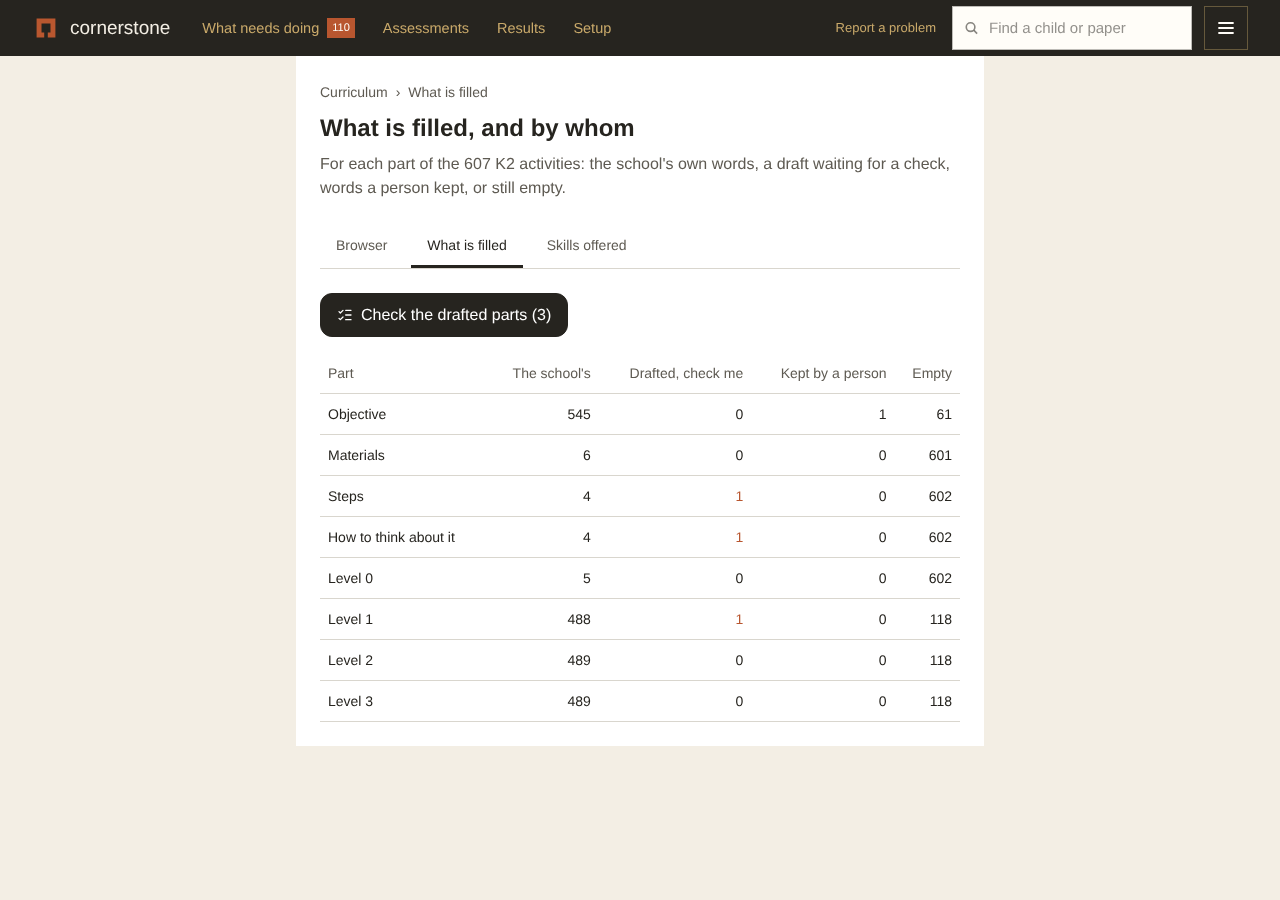
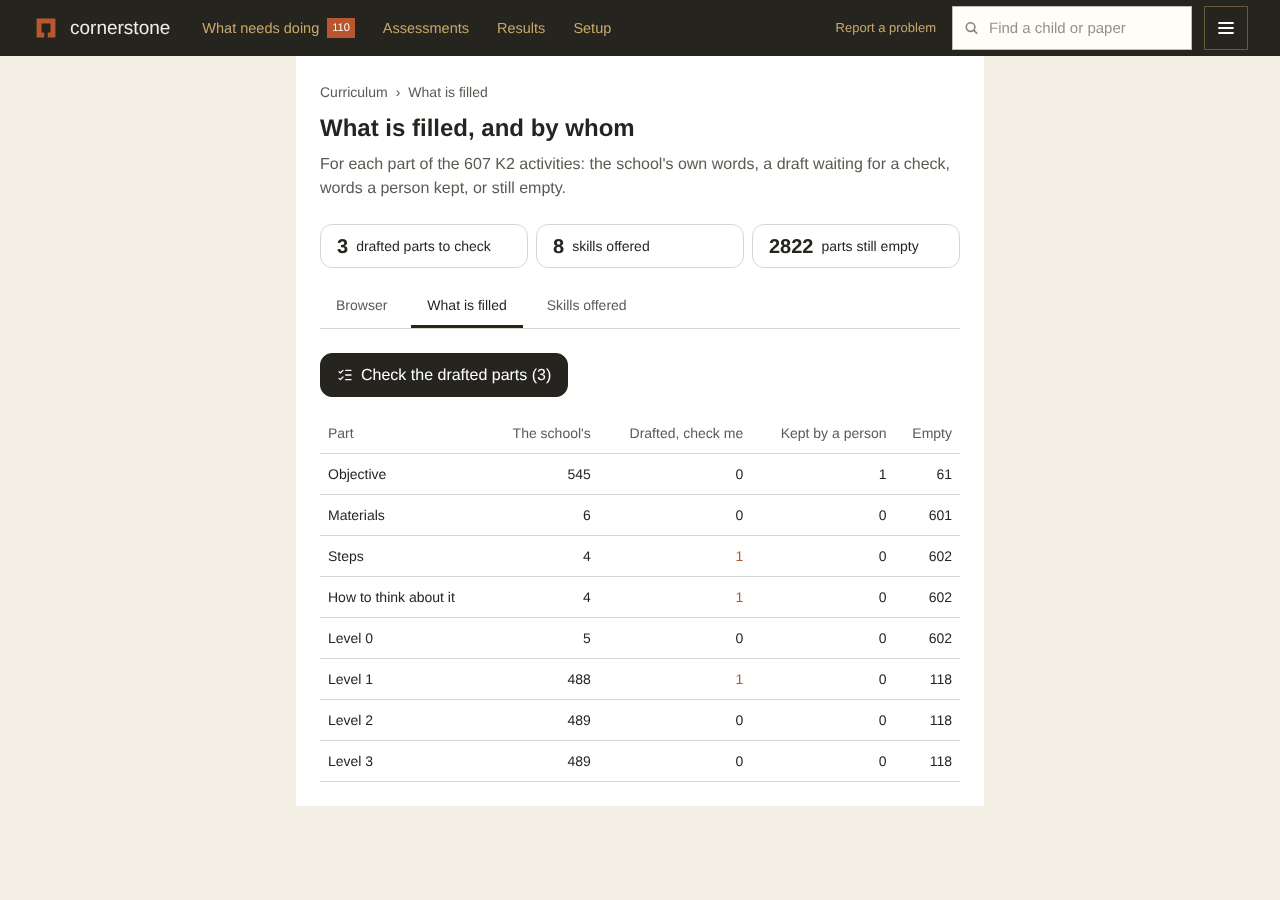
M1-13: summary strip of counts on every screen; leftover offers closed through the ledger
Claude-Session: https://claude.ai/code/session_01KEBF28q3XY1kZwZMF6wuM7

diff --git a/apps/web/tests/m1-13-rows.ts b/apps/web/tests/m1-13-rows.ts
@@ -45,7 +45,6 @@ export async function curriculumRows(sql: Sql): Promise<{ skills: string[] }> {
     const [{ id: staff }] = await sql<{ id: string }[]>`insert into staff (tenant_id, campus_id) values (${t}, ${campus}) returning id`;
     await sql`insert into pii.staff (tenant_id, staff_id, name, email) values (${t}, ${staff}, 'Placeholder Educator', ${TEST_STAFF.email})`;
   }
-  await sql`delete from curriculum_proposal where subject_code like 'ACT-K2-M113-%' and machine = 'm1-13 test'`.catch(() => undefined);
   await sql`delete from activity where tenant_id = ${t} and code like 'ACT-K2-M113-%'`;
   // red: 13 activities, 20 of 117 slots filled — the first full with a skill, the second drafted in three parts, the third a person's objective, the fifth materials only
   await activity(sql, t, 1, RED, FULL, [skills[0]]);
@@ -73,6 +72,7 @@ export async function offers(sql: Sql, skills: string[]): Promise<void> {
   const [{ id: t }] = await sql<{ id: string }[]>`select id from tenant order by created_at limit 1`;
   await sql`delete from activity_skill where tenant_id = ${t} and activity_code = ${code(3)}`;
   await sql`insert into activity_skill (tenant_id, activity_code, skill_code, source) values (${t}, ${code(3)}, ${skills[0]}, 'person')`;
+  await clearOffers(sql);
   const run = crypto.randomUUID();
   for (const [skill, also, reason] of [[skills[1], skills[0], "The nearest examples did not carry it."], [skills[2], "", "Counting objects needs it too."]]) {
     await sql`
@@ -81,8 +81,15 @@ export async function offers(sql: Sql, skills: string[]): Promise<void> {
   }
 }
 
+/** The ledger is append-only (it refuses a delete), so a leftover offer is closed the way a person closes one: a
+ *  `rejected` row that moves on it. */
 export async function clearOffers(sql: Sql): Promise<void> {
-  await sql`delete from curriculum_proposal where subject_code like 'ACT-K2-M113-%'`.catch(() => undefined);
+  await sql`
+    insert into curriculum_proposal (tenant_id, run_id, about, kind, subject_code, status, reason, staff_id)
+    select p.tenant_id, p.run_id, p.id, p.kind, p.subject_code, 'rejected', 'm1-13 test clean-up', (select staff_id from pii.staff where email = ${TEST_STAFF.email})
+    from curriculum_proposal p
+    where p.about is null and p.status = 'needs_person' and p.subject_code like 'ACT-K2-M113-%'
+      and not exists (select 1 from curriculum_proposal f where f.about = p.id)`;
 }
 
 export async function screensSwitch(sql: Sql, on: boolean) {

diff --git a/apps/web/app/(app)/curriculum/chrome.tsx b/apps/web/app/(app)/curriculum/chrome.tsx
@@ -1,6 +1,6 @@
 import Link from "@/components/link";
 import { Icon, type IconName } from "@/lib/icons";
-import type { State } from "@/lib/curriculum-screens";
+import { gap, gate, readOffers, waiting, type State } from "@/lib/curriculum-screens";
 
 // The breadcrumb, title and the three tabs every curriculum screen shares.
 const TABS = [
@@ -9,8 +9,11 @@ const TABS = [
   { href: "/curriculum/offers", label: "Skills offered" },
 ] as const;
 
-export function Chrome({ here, crumb, title, lead, children }: { here: (typeof TABS)[number]["href"]; crumb?: string; title: string; lead: string; children: React.ReactNode }) {
+export async function Chrome({ here, crumb, title, lead, children }: { here: (typeof TABS)[number]["href"]; crumb?: string; title: string; lead: string; children: React.ReactNode }) {
   const tab = TABS.find((t) => t.href === here)!;
+  const me = await gate();
+  const [drafted, gaps, offered] = await Promise.all([waiting(), gap(), readOffers(me).catch(() => null)]);
+  const empty = gaps.reduce((n, g) => n + g.empty, 0);
   return (
     <>
       <nav aria-label="Breadcrumb" className="cs-crumbs">
@@ -26,6 +29,11 @@ export function Chrome({ here, crumb, title, lead, children }: { here: (typeof T
       </nav>
       <h1>{title}</h1>
       <p className="cs-lead">{lead}</p>
+      <nav aria-label="Counts" className="cs-strip">
+        <Link href="/curriculum/fill/walk" data-count="waiting"><b>{drafted.length}</b> drafted parts to check</Link>
+        <Link href="/curriculum/offers" data-count="offers"><b>{offered === null ? "–" : offered.length}</b> skills offered</Link>
+        <Link href="/curriculum/fill" data-count="empty"><b>{empty}</b> parts still empty</Link>
+      </nav>
       <nav aria-label="Curriculum screens" className="cs-tabs">
         {TABS.map((t) => (
           <Link key={t.href} href={t.href} aria-current={t.href === here ? "page" : undefined}>

diff --git a/apps/web/app/(app)/curriculum/screens.css b/apps/web/app/(app)/curriculum/screens.css
@@ -52,3 +52,7 @@
 .cs-skill b { font-weight: 600; }
 .cs-note { color: var(--text-muted); font-size: var(--text-label); }
 @media (max-width: 767px) { .cs-table thead { display: none; } .cs-table tr { display: block; padding: var(--space-2) 0; border-bottom: 1px solid var(--border); } .cs-table td { display: block; border: 0; padding: var(--space-1) 0; } .cs-table td.n { text-align: left; } }
+.cs-strip { display: grid; grid-template-columns: repeat(3, minmax(0, 1fr)); gap: var(--space-2); margin: var(--space-3) 0; }
+.cs-strip a { min-height: var(--tap); display: flex; align-items: center; gap: var(--space-2); border: 1px solid var(--border); border-radius: var(--radius-m); padding: var(--space-1) var(--space-3); font-size: var(--text-label); color: var(--text); }
+.cs-strip b { font-size: var(--text-h3); line-height: var(--lh-h3); font-weight: 600; }
+@media (max-width: 767px) { .cs-strip { grid-template-columns: 1fr; } }
